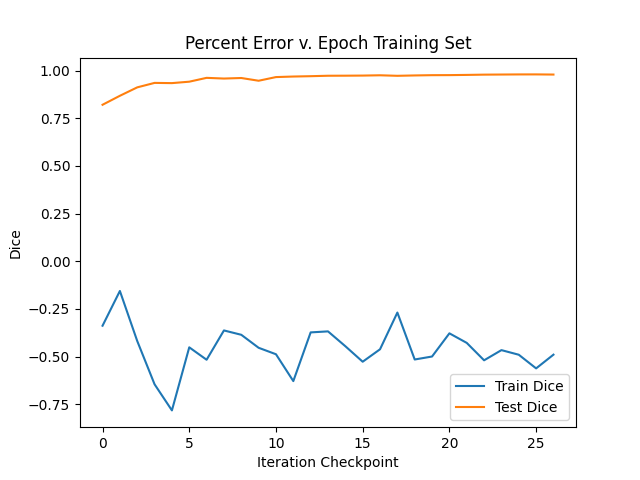
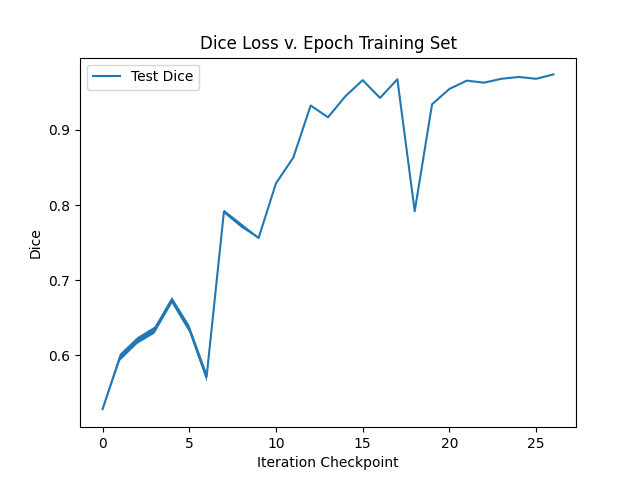
pushing changes

diff --git a/train.py b/train.py
@@ -56,11 +56,12 @@ def train_net(net,
     criterion = nn.BCEWithLogitsLoss()
 
     train_scores = []
-    train_variances = []
     val_scores = []
-    val_variances = []
 
     sub_epoch_interval = (len(dataset) // (10 * batch_size))
+
+    running_train_loss = 0
+    running_train_losses = []
 
     for epoch in range(epochs):
         net.train()
@@ -79,6 +80,12 @@ def train_net(net,
                 loss = criterion(masks_pred, true_masks)
                 epoch_loss += loss.item()
 
+                pred = torch.sigmoid(masks_pred)
+                pred = (pred > 0.5).float()
+                pred_dice = dice_coeff(pred, true_masks)
+                running_train_loss += pred_dice.item()
+                running_train_losses.append(pred_dice.item())
+
                 writer.add_scalar('Loss/train', loss.item(), global_step)
                 pbar.set_postfix(**{'loss (batch)': loss.item()})
 
@@ -86,7 +93,7 @@ def train_net(net,
                 loss.backward()
                 nn.utils.clip_grad_value_(net.parameters(), 0.1)
                 optimizer.step()
-                
+
                 pbar.update(imgs.shape[0])
                 global_step += 1
 
@@ -96,10 +103,13 @@ def train_net(net,
                         writer.add_histogram('weights/' + tag, value.data.cpu().numpy(), global_step)
                         writer.add_histogram('grads/' + tag, value.grad.data.cpu().numpy(), global_step)
                     
-                    val_score, val_variance = eval_net(net, val_loader, device)
+                    val_score = eval_net(net, val_loader, device)
 
+                    train_scores.append(running_train_loss/sub_epoch_interval)
                     val_scores.append(val_score)
-                    val_variances.append(val_variance)
+
+                    running_train_loss = 0
+                    running_train_losses = []
                     
                     scheduler.step(val_score)
                     writer.add_scalar('learning_rate', optimizer.param_groups[0]['lr'], global_step)
@@ -123,21 +133,13 @@ def train_net(net,
 
     writer.close()
 
-    domain = range(len(train_scores))
-    pyplot.title('Percent Error v. Epoch Training Set')
-    pyplot.xlabel('Iteration Checkpoint')
-    pyplot.ylabel('Dice')
-    pyplot.plot(domain, val_scores, label="Test Dice")
-    pyplot.fill_between(x, val_scores + val_variances, y2=val_scores - val_variances)
-    pyplot.legend()
-    pyplot.savefig('plots/loss2.png')
-    pyplot.close()
+    return train_scores, val_scores
 
 
 def get_args():
     parser = argparse.ArgumentParser(description='Train the UNet on images and target masks',
                                      formatter_class=argparse.ArgumentDefaultsHelpFormatter)
-    parser.add_argument('-e', '--epochs', metavar='E', type=int, default=3,
+    parser.add_argument('-e', '--epochs', metavar='E', type=int, default=1,
                         help='Number of epochs', dest='epochs')
     parser.add_argument('-b', '--batch-size', metavar='B', type=int, nargs='?', default=8,
                         help='Batch size', dest='batchsize')
@@ -145,7 +147,7 @@ def get_args():
                         help='Learning rate', dest='lr')
     parser.add_argument('-f', '--load', dest='load', type=str, default=False,
                         help='Load model from a .pth file')
-    parser.add_argument('-s', '--scale', dest='scale', type=float, default=0.1,
+    parser.add_argument('-s', '--scale', dest='scale', type=float, default=0.25,
                         help='Downscaling factor of the images')
     parser.add_argument('-v', '--validation', dest='val', type=float, default=10.0,
                         help='Percent of the data that is used as validation (0-100)')
@@ -159,8 +161,8 @@ if __name__ == '__main__':
     device = torch.device('cuda' if torch.cuda.is_available() else 'cpu')
     logging.info(f'Using device {device}')
 
-    net = UNet(n_channels=3, n_classes=1, bilinear=True)
-    #net = TiedUNet(n_channels=3, n_classes=1, bilinear=True)
+    #net = UNet(n_channels=3, n_classes=1, bilinear=True)
+    net = TiedUNet(n_channels=3, n_classes=1, bilinear=True)
 
     if args.load:
         net.load_state_dict(
@@ -171,13 +173,69 @@ if __name__ == '__main__':
     net.to(device=device)
 
     try:
-        train_net(net=net,
-                  epochs=args.epochs,
-                  batch_size=args.batchsize,
-                  lr=args.lr,
-                  device=device,
-                  img_scale=args.scale,
-                  val_percent=args.val / 100)
+        nRuns = 1
+        overall_train_statistics = []
+        overall_eval_statistics = []
+
+        train_mean_scores = []
+        train_variances = []
+        val_mean_scores = []
+        val_variances = []
+
+        for i in range(nRuns):
+            train_scores, val_scores = train_net(net=net,
+                                                epochs=args.epochs,
+                                                batch_size=args.batchsize,
+                                                lr=args.lr,
+                                                device=device,
+                                                img_scale=args.scale,
+                                                val_percent=args.val / 100)
+            overall_train_statistics.append(train_scores)
+            overall_eval_statistics.append(val_scores)
+        
+        nRecords = len(overall_train_statistics[0])
+
+        for i in range(nRecords):
+            train_one_record = []
+            val_one_record = []
+            running_train = 0
+            running_val = 0
+
+            for j in range(nRuns):
+                eval_stat = overall_eval_statistics[j][i]
+                train_stat = overall_train_statistics[j][i]
+                running_val +=eval_stat
+                running_train += train_stat
+                val_one_record.append(eval_stat)
+                train_one_record.append(train_stat)
+
+            train_mean_scores.append(running_train/nRuns)
+            val_mean_scores.append(running_val/nRuns)
+            train_variances.append(np.std(train_one_record))
+            val_variances.append(np.std(val_one_record))
+        
+
+        eval_high_var = [a + b for a, b in zip(val_mean_scores, val_variances)]
+        eval_low_var = [a - b for a, b in zip(val_mean_scores, val_variances)]
+
+        train_high_var = [a + b for a, b in zip(train_mean_scores, train_variances)]
+        train_low_var = [a - b for a, b in zip(train_mean_scores, train_variances)]
+        
+        pyplot.title('Dice Loss v. Epoch Training Set over 10 runs')
+        pyplot.xlabel('Iteration Checkpoint')
+        pyplot.ylabel('Dice')
+
+        domain = range(len(val_mean_scores))
+        pyplot.plot(domain, val_mean_scores, label="Eval Dice", color="blue")
+        pyplot.fill_between(domain, eval_high_var, y2=eval_low_var, color="skyblue")
+
+        domain = range(len(train_mean_scores))
+        pyplot.plot(domain, train_mean_scores, label="Training Dice", color="orange")
+        pyplot.fill_between(domain, train_high_var, y2=train_low_var, color="navajowhite")
+
+        pyplot.legend()
+        pyplot.savefig('plots/total_loss_' + str(nRuns) + '.png')
+        pyplot.close()
     
     except KeyboardInterrupt:
         try:

diff --git a/eval.py b/eval.py
@@ -13,7 +13,6 @@ def eval_net(net, loader, device):
     n_val = len(loader)  # the number of batch
     tot = 0
 
-    dice_coeffs = []
 
     with tqdm(total=n_val, desc='Validation round', unit='batch', leave=False) as pbar:
         for batch in loader:
@@ -31,8 +30,7 @@ def eval_net(net, loader, device):
                 pred = (pred > 0.5).float()
                 pred_dice = dice_coeff(pred, true_masks).item()
                 tot += pred_dice
-                dice_coeffs.append(pred_dice)
 
             pbar.update()
 
-    return tot / n_val, np.var(dice_coeffs)
+    return tot / n_val
